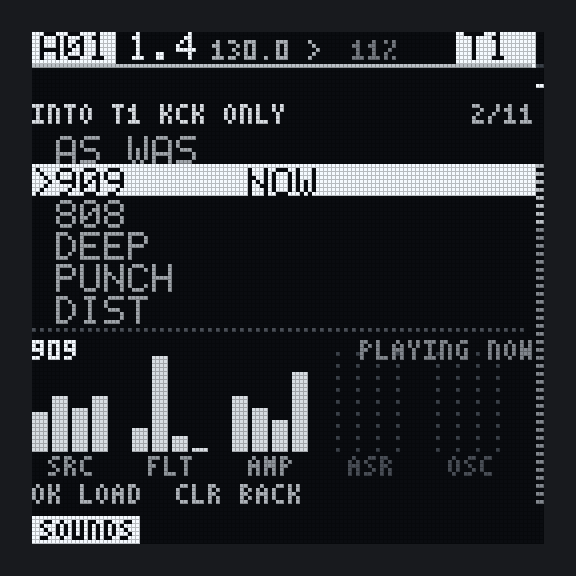
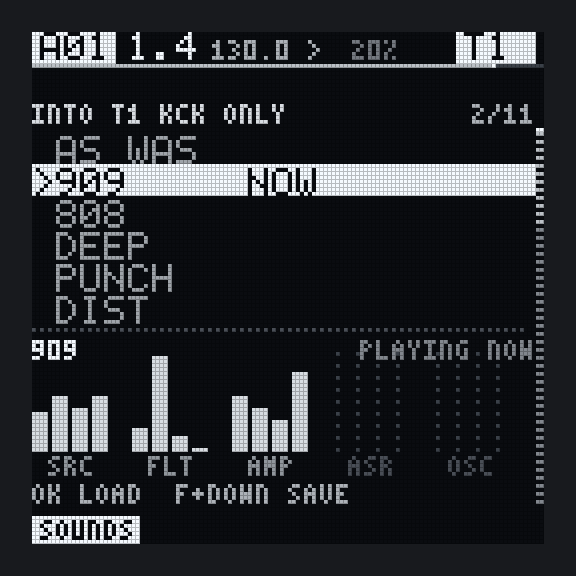
Docs: your own sounds and copy / paste in SOUNDS
Claude-Session: https://claude.ai/code/session_01Tw2EaEtYRaMRkMr8XSSC4p

diff --git a/docs/CHEATSHEET.md b/docs/CHEATSHEET.md
@@ -43,7 +43,7 @@ pads and the performance mixer.
 | MACHINE | FUNC+EDIT | Pick the machine on each track, and its MIDI OUT channel |
 | KIT | FUNC+EDIT twice, or the menu's KITS | Save and recall whole kits: 16 slots on the card, shared by all projects |
 | SAMPLES | FUNC+PROJECT ("pool"), or OK in EDIT or MACHINE on a SMP track, OK in MACHINE on a GRN track | Pick the track's WAV from `/SAMPLES` or `/RECORD` |
-| SOUNDS | OK in EDIT or MACHINE on a drum, VA, WAVE or FM4 track; OK in EDIT on a GRN track | Load a factory sound into that track only; AS WAS puts yours back |
+| SOUNDS | OK in EDIT or MACHINE on a drum, VA, WAVE or FM4 track; OK in EDIT on a GRN track | Load a factory sound or one of your own into that track only; AS WAS puts yours back. FUNC+DOWN saves the track's sound as your own, FUNC+UP copies it for the PASTE row |
 | MIXER | MIXER | Levels, the sidechain duck, stereo width, delay, reverb, routing, chorus, master, kill EQ |
 | PERFORM | FUNC+MIXER | Scenes, morph, macros, mutation |
 | Track menu | **Hold OK** in GRID or KEYS (a tap says `HOLD OK: TRACK MENU`) | The selected track's rows: GENERATE a drum or melodic part (DENSITY, RANGE, LEAP, WHAT); EVOLVE every 1-8 loops (mutation MIX: a different one each turn), ORBIT or DRIFT, KEEP or HOME, saved with the project; SPEED, PLAY, FREEZE, RELOAD SAMPLE |
@@ -183,7 +183,7 @@ Page 1 NOTE VEL LEN MICR, page 2 PROB COND RTCH RAMP, page 3 ACNT SLID CHRD.
 | KIT | Slot | Page of 8 slots | Page of 8 slots | — | A: slot | Recall (twice) / back to MACHINE | DOWN: save here, UP: read the card again |
 | MIXER | Group of pages: TRK DCK WID DLY REV CHO MST | Page (17) | Page | Step page | Levels or page fields; on EQ, push A-C kills a band; on DLY+ and REV+, push A flips the mode; on WID and CHO 1-4 / 5-8, push A-D steps that track's width or send (OFF, 48, 96 / OFF, 64) | — / clear | Copy / paste |
 | SAMPLES | Entry | Page of 8 | Page of 8 | — | A: entry; push A: hear the file (twice while playing) / stop | Load file or open folder / up a folder (at the top: back) | UP: read the folder again |
-| SOUNDS | Entry | First / last entry | Track | — | A: entry | Load into the track (AS WAS: put yours back) / back | — |
+| SOUNDS | Entry | First / last entry | Track | — | A: entry; push B / C: rename / delete your own | Load into the track (AS WAS: put yours back; PASTE: the copied sound) / back | Copy the sound / save it as your own |
 | RESAMPLE | Bars 1/2/4/8 | Destination FILE, TRK 1-8 | Destination | Step page | A: bars, B: source, C: input level | Arm / cancel | Copy / paste |
 | PROJECT | Slot cursor by row | Slot cursor | Page: PROJECT CHAIN PATTERN SETUP PROJECTS | Bank A-H | A: queue mode, B: key, C: scale | Queue slot / cancel queue | — (FUNC menu) |
 | CHAIN | Entry | Entry's pattern -/+ | Page | Bank A-H | A: repeats X1-X16, B: mute recall --/M1-M8 | Add entry / remove entry (twice; empty: back) | — (FUNC menu) |

diff --git a/docs/MANUAL.md b/docs/MANUAL.md
@@ -479,6 +479,7 @@ you, with starter projects, a sample pack and a quick start unless you untick th
                                   /BANK_A.BIN ... BANK_H.BIN   16 patterns each
 /ENAGA/DATA/STRATA/AUTOSAVE/                   the working copy, same files
 /ENAGA/DATA/STRATA/KITS/KIT_01.BIN ... KIT_16.BIN   the kit library
+/ENAGA/DATA/STRATA/SOUNDS/KCK.BIN ... FM4.BIN      your own sounds, one file per machine
 /RECORD/STRATA_<n>.WAV                         resampled takes
 /RECORD/JAM_<n>.WAV                            JAM REC recordings
 /SAMPLES/STRATA/                               the starter sample pack, if the card builder added it
@@ -987,6 +988,32 @@ Most lists are longer than the screen: they scroll as the cursor moves. PAD, STR
 FAT, REESE, ACID, SYNC, LEAD and DRONE sustain (the ENV page's SUS is up), so their notes last as long as
 each step's LEN: give the steps long LENs, or hear PAD on A05. A loaded sound is a change to the
 kit like turning knobs: it is saved with the project, and FUNC+CLR does not undo it (AS WAS does).
+
+### Your own sounds, and copying a sound to another track
+
+A sound you made on a track can join its machine's SOUNDS list, so every project can load it.
+In SOUNDS, **FUNC+DOWN saves** the track's sound: name it (eight characters; A or LEFT/RIGHT move,
+B, VALUE or UP/DOWN pick the character) and press OK. It is listed after the factory sounds with
+a `+` in front (`+KCK 1`), and loads with OK like any other, on any track with the same machine.
+FUNC+DOWN on one of your own sounds replaces it with what the track has now, under the same name
+or a new one. **Push B** renames the sound under the cursor and **push C** deletes it (OK twice).
+The factory sounds cannot be renamed or deleted. Each machine keeps up to 16 of your sounds.
+
+A saved sound holds the same pages a factory sound sets, and leaves the FX page, the LFO, the
+ARP, HAT's choke group and GRAIN's POS and PIT to the track it is loaded into. SMP and MID have no
+SOUNDS list and so no saved sounds.
+
+**FUNC+UP copies** the track's sound. A **PASTE** row then sits under AS WAS on every track
+(`PASTE T1 KCK`): OK on it gives the selected track the copied sound. On a track with another
+machine it switches the machine first (`SWITCHES MACHINE` under the bars), the way MACHINE does,
+and then sets the sound; the track keeps its mix, LFO and ARP. AS WAS takes a paste back, the
+machine included. The copy lasts until the next FUNC+UP or until STRATA is switched off.
+
+Saved sounds live on the card in `ENAGA/DATA/STRATA/SOUNDS/`, one file per machine (`KCK.BIN`,
+`MNO.BIN` and so on), beside the projects and the kit library. They are not part of a project:
+copying that folder to another card takes them along, and projects open exactly as they did. A
+file that cannot be read shows `SOUND FILE` and the reason on the list's top line, and is never
+written over, so nothing in it is lost.
 
 ---
 

diff --git a/docs/HANDOFF.md b/docs/HANDOFF.md
@@ -26,7 +26,7 @@ the top of `docs/UNIT_CHECKLIST.md` is the next pass.
 | `make -C host test` | **3,923,641 checks, 0 failures** on `main` after #217 (2026-11-28): `core/`, `dsp/` and all of `app/`. The same under ASan and UBSan, with `ASAN_OPTIONS=detect_leaks=0` |
 | CI | `.github/workflows/ci.yml` on every PR: the suite with GCC, again under ASan and UBSan at -O1, the layout check, the screenshots, and the repo checks (`audit_commands.sh`, `check_rules.sh`, `enaga_check.sh`, `check_scripts.sh`, the packaging and build-cache scripts' tests, the card builder's tests). A docs-only PR skips the test jobs. `tools/ci_local.sh` runs the same lanes in WSL. `enaga-upstream.yml` reports new Enaga releases weekly. No device build or scenario runs in CI |
 | `tools/build.sh` | links. Last measured image (cl6x, 2026-11-25): payload 1,224,160 bytes, bss 1,605,248; no BOOT / MCU / SPI sections. `tests/test_memory.cpp` reads these two figures from here, so update both together |
-| `tools/scenarios.sh` | **57 scenarios**, run on Roland's PC only. All 50 that existed passed with cl6x on 2026-11-27 with the chorus and stereo width in; worst **34.20%**, `genload` (GENERATE at full density on all eight tracks). The v0.5.0 build: worst 26.34% cl6x, 55.06% GCC-only. Every run's figures, and what each change cost, are in `docs/BUDGET.md`. `tools/profile_guest.py` gives a scenario's guest profile by function |
+| `tools/scenarios.sh` | **58 scenarios**, run on Roland's PC only. All 50 that existed passed with cl6x on 2026-11-27 with the chorus and stereo width in; worst **34.20%**, `genload` (GENERATE at full density on all eight tracks). The v0.5.0 build: worst 26.34% cl6x, 55.06% GCC-only. Every run's figures, and what each change cost, are in `docs/BUDGET.md`. `tools/profile_guest.py` gives a scenario's guest profile by function |
 | unit | v0.3.1 and builds from `main` boot and play. Load on the top line (2026-11-27, main after #208): A01 15-28%, GENERATE on all tracks 40-60%, so the unit reads about 1.2-1.8x the emulator on a light beat and 2.0-2.4x on dense parts (`docs/BUDGET.md`, "GENERATE on every track"). MAX readings from SETUP are still owed |
 | memory | init takes **97.32 MiB of a 120 MiB heap**: 22.68 MiB spare against an 8 MiB headroom rule. `tests/test_memory.cpp` itemises it. Never checked on the unit |
 | milestones | M0–M7 code-complete; every load and feel exit criterion waits for the unit (`docs/PLAN.md`) |

diff --git a/docs/DESIGN_NOTES.md b/docs/DESIGN_NOTES.md
@@ -200,3 +200,30 @@ guard, listing every track-edit command. CAPTURE copies every lane's part and co
 pool into one free slot, then switches to it keeping each lane's origin, so nothing restarts.
 LAUNCH is PROJECT's last page so the page walks in older tests and scenarios stay valid.
 `tests/scenario_launch.sh` drives it in the emulator; CAPTURE and held pads are host-tested only.
+
+## Your own sounds and copy / paste in SOUNDS
+
+`core/usersounds.hpp` has the design and the file's bytes; `app/storage.hpp` ("your own sounds")
+the protocol. The decisions behind it:
+
+- **One file per machine, not per sound**: `SOUNDS/<MCH>.BIN`, sixteen slots, read when SOUNDS
+  opens on that machine and written whole after each save, rename or delete (a few hundred bytes,
+  one pass, through files::save's .TMP). One read per list, and no scan of sixteen files.
+- **Beside the projects, never in them**, like the kit library: every project file is unchanged,
+  so every older project opens as it did, and a sound saved once is in every project.
+- **Versioned like every STRATA file**: the container's version, and in the record its own length
+  and parameter count, so a later build can save more per sound (the WAVE scan page's bytes) and
+  this one still reads it, and a record with fewer bytes takes the machine's defaults for the rest.
+  A file this build cannot read is never written over (`failed`), so nothing a newer build or a
+  damaged card holds is lost by saving.
+- **The whole kKitParams bytes are kept; loading writes what a factory sound writes**
+  (`user_sound_owns` = `sound_preset_writes`), so the FX page, LFO and ARP stay the track's, as
+  Roland chose for the factory sounds. Kept whole so a later build may choose to load more.
+- **Loading goes as bytes, not a preset index**: `Cmd::sound_bytes` carries eight a command (b-e
+  and `u`), four commands a sound, posted together so they land in one block. No shared buffer
+  between the contexts is needed.
+- **Copy is a clipboard row, not a target picker**: FUNC+UP takes the track's sound into the UI's
+  clipboard and OK on the PASTE row loads it, so "paste" is the list's own OK. Pasting onto
+  another machine posts `Cmd::set_machine` first; `Cmd::sound_preset`'s AS WAS remembers the
+  machine too and switches it back (`Engine::switch_machine`).
+- `tests/scenario_usersounds.sh` walks save, load, copy, paste and AS WAS; UNIT_CHECKLIST W68.

diff --git a/docs/UNIT_CHECKLIST.md b/docs/UNIT_CHECKLIST.md
@@ -899,6 +899,20 @@ Beat playing, A01, a card with some space.
   at the end of the pattern. `____`
 - Tap PROJECT: PROJECT opens as the key comes up, no slower than before to the hand. FUNC +
   PROJECT: SAMPLES at once. `____`
+
+**W68. Your own sounds and copy / paste in SOUNDS (5 min).** Beat playing, A01, a card in.
+- Track 1 (KCK), EDIT, turn TUN and DEC somewhere new, OK: SOUNDS. FUNC + DOWN: `SAVE SOUND`
+  offering `KCK 1`. OK: `SAVED KCK 1`, and `+KCK 1     NOW` at the end of the list, under the
+  cursor. The beat never stops or stutters. `____`
+- Down to 909, OK: the factory kick. Back to `+KCK 1`, OK: your kick again, as you left it. `____`
+- Push B on `+KCK 1`, UP once, OK: `+LCK 1`. Push C, OK, OK: `DELETED`, the row is gone. Push B
+  on a factory sound: `YOUR OWN SOUNDS ONLY`. `____`
+- Save one again, then switch the unit off and on: it is still in the list, in this project and
+  after NEW. On the PC the card has `ENAGA/DATA/STRATA/SOUNDS/KCK.BIN`. `____`
+- Track 6 (MNO), SOUNDS, FUNC + UP: `COPIED T6 MNO`. Screen key right to track 7 (PLY):
+  `PASTE T6 MNO` under AS WAS, `SWITCHES MACHINE` under the bars. OK: track 7 plays track 6's
+  bass sound on its own notes, its pan and sends as they were. AS WAS: PLY and its stab are
+  back. `____`
 **Done.** Reply with the numbers: `all pass`, or for example `W3 fail: reads 055`,
 `W14: MAX 61.2`.
 
@@ -926,6 +940,8 @@ From `D:\DEV\STRATA` through WSL, as in CLAUDE.md (`wsl.exe -d Ubuntu -- bash -c
       only; record both in docs/BUDGET.md, "A05 PAD". Peak `____ %` / `____ %`
 - [ ] `tests/scenario_sounds.sh` (new: SOUNDS on the kick track, loads 808 and PUNCH while
       playing, then AS WAS) passes with cl6x. Peak `____ %`
+- [ ] `tests/scenario_usersounds.sh` (new: saves the kick's sound as KCK 1, loads HARD and KCK 1,
+      copies, pastes onto track 2, AS WAS) passes with cl6x. Peak `____ %`
 - [ ] `tests/scenario_midi.sh` (new: track 1 to MID on the running beat, both STOPs) passes with
       cl6x and GCC only. It is part of E1's `tools/scenarios.sh` too. Peak `____ %` / `____ %`
 - [ ] **E1.** `tools/scenarios.sh` (every scenario) passes, with cl6x and with GCC only, on main

diff --git a/docs/CONTROLS.md b/docs/CONTROLS.md
@@ -83,7 +83,8 @@ HOME "system", PLAY "◀◀", STOP "▶▶", MIXER "fx", EDIT "rec src".
      EDIT, GRID and KEYS. OK on the ARP page opens ARPS, the factory arps, as OK on the sound
      pages opens SOUNDS (same keys, AS WAS first).
      On PROJECTS, where only A turns, push B renames and push C deletes the project under the
-     cursor (delete then asks for OK twice).
+     cursor (delete then asks for OK twice). SOUNDS does the same for your own saved sounds
+     (core/usersounds.hpp); on a factory sound or in ARPS they say `YOUR OWN SOUNDS ONLY`.
    - **VALUE is the crossfader.** Push VALUE + STEP picks what it fades: an effect, the morph
      (13) or the looper (16), on every screen (the performance mixer, below). With nothing
      picked it is the tempo (PERFORM: the morph; CHAIN/PATTERN: the field under the cursor).
@@ -182,7 +183,7 @@ Printed labels (above), and the moves made while playing:
 | Chord | Does |
 | --- | --- |
 | FUNC + CLR / OK | undo / redo |
-| FUNC + UP / DOWN | copy / paste (editing screens; on PROJECT's slots a whole pattern, the paste twice). Card lists: read again / store here (KIT save, PROJECTS save as). FUNC + LEFT twice on PROJECT's slots clears the pattern under the cursor |
+| FUNC + UP / DOWN | copy / paste (editing screens; on PROJECT's slots a whole pattern, the paste twice). Card lists: read again / store here (KIT save, PROJECTS save as). SOUNDS: copy the track's sound (the PASTE row under AS WAS loads it, on any track) / store it as your own, named (on one of your own: replace it). ARPS: `ARPS: NOT SAVED`. FUNC + LEFT twice on PROJECT's slots clears the pattern under the cursor |
 | FUNC + lower pad | mute that track on the next bar (at once while stopped). Several pads before the bar all land; the same pad twice takes it back |
 | FUNC + FILL / REPEAT / THROW | note repeat on/off / pitched-down repeat / reverb throw |
 | FUNC + push A / B / C | kill LOW / MID / HI |

diff --git a/docs/FEATURES.md b/docs/FEATURES.md
@@ -238,6 +238,7 @@ FM4 and GRAIN machines.
 | **Starter content in the card builder** (web/, `content/starter/`): ten starter projects (0.5.0 and newer), a 105-file sample pack rendered by STRATA (`host/starter.cpp`) in `/SAMPLES/STRATA`, and `STRATA-QUICKSTART.txt`, behind one tick box (#230) | #223 | ○ W61 | `tests/test_starter.cpp` opens every project through Storage; web tests check the pack and the manifest. No emulator scenario: nothing in the app changed |
 | Factory pattern A05 PAD: held VA POLY chords from the ENV page, in the pattern's locks | #100 | ○ (13k) | The kit's chord stays A01's SUS 0 stab |
 | Factory sounds: SOUNDS (OK in EDIT or MACHINE) loads one of 116 ready-made sounds (KCK 10, SNR 10, HAT 11, PRC 12, MNO 14, PLY 12, WMN 12, WPL 12, FM4 12, GRN 11) into one track, AS WAS puts it back | #102, #118, #122, #126, #134, #184 | ○ (15e) | Leaves FX, LFO, ARP, fader and HAT's choke group; not undoable except by AS WAS |
+| **Your own sounds**: in SOUNDS, FUNC+DOWN saves the track's sound by name (16 per machine, on the card in `SOUNDS/<MCH>.BIN`, shared by every project), OK loads it on any track with that machine, push B renames, push C deletes; FUNC+UP copies a track's sound and the PASTE row puts it on any track, switching the machine if needed, AS WAS takes it back | WIP | ○ (W68) | Same pages as a factory sound (not FX, LFO, ARP); SMP and MID have none; the copy is lost at power-off |
 
 ---
 

diff --git a/CHANGELOG.md b/CHANGELOG.md
@@ -8,6 +8,16 @@ the project file format or the controls.
 
 ### Added
 
+- **Your own sounds in SOUNDS.** FUNC+DOWN saves the track's sound under a name of up to eight
+  characters; it is listed after the factory sounds as `+NAME` and loads with OK on any track with
+  the same machine, in every project. FUNC+DOWN on one of your own replaces it, push B renames and
+  push C deletes it (OK twice). Up to 16 per machine, kept in `ENAGA/DATA/STRATA/SOUNDS/<MCH>.BIN`,
+  a versioned file per machine beside the projects; project files do not change. A saved sound
+  sets the pages a factory sound sets.
+- **Copy a sound to another track.** FUNC+UP in SOUNDS copies the track's sound; a `PASTE T1 KCK`
+  row then sits under AS WAS on every track, and OK on it gives that track the sound, switching
+  its machine first when it hosts another. AS WAS takes the paste back, machine included. New
+  emulator scenario `usersounds`.
 - **Queue a pattern from any screen.** Hold PROJECT and press STEP n: slot n of the shown bank is
   queued (`A05 QUEUED END`) and the screen you play on stays up. PROJECT now opens when the key
   comes up, and not at all when a STEP was pressed while it was held. The FUNC help's FUNC + KNOB
